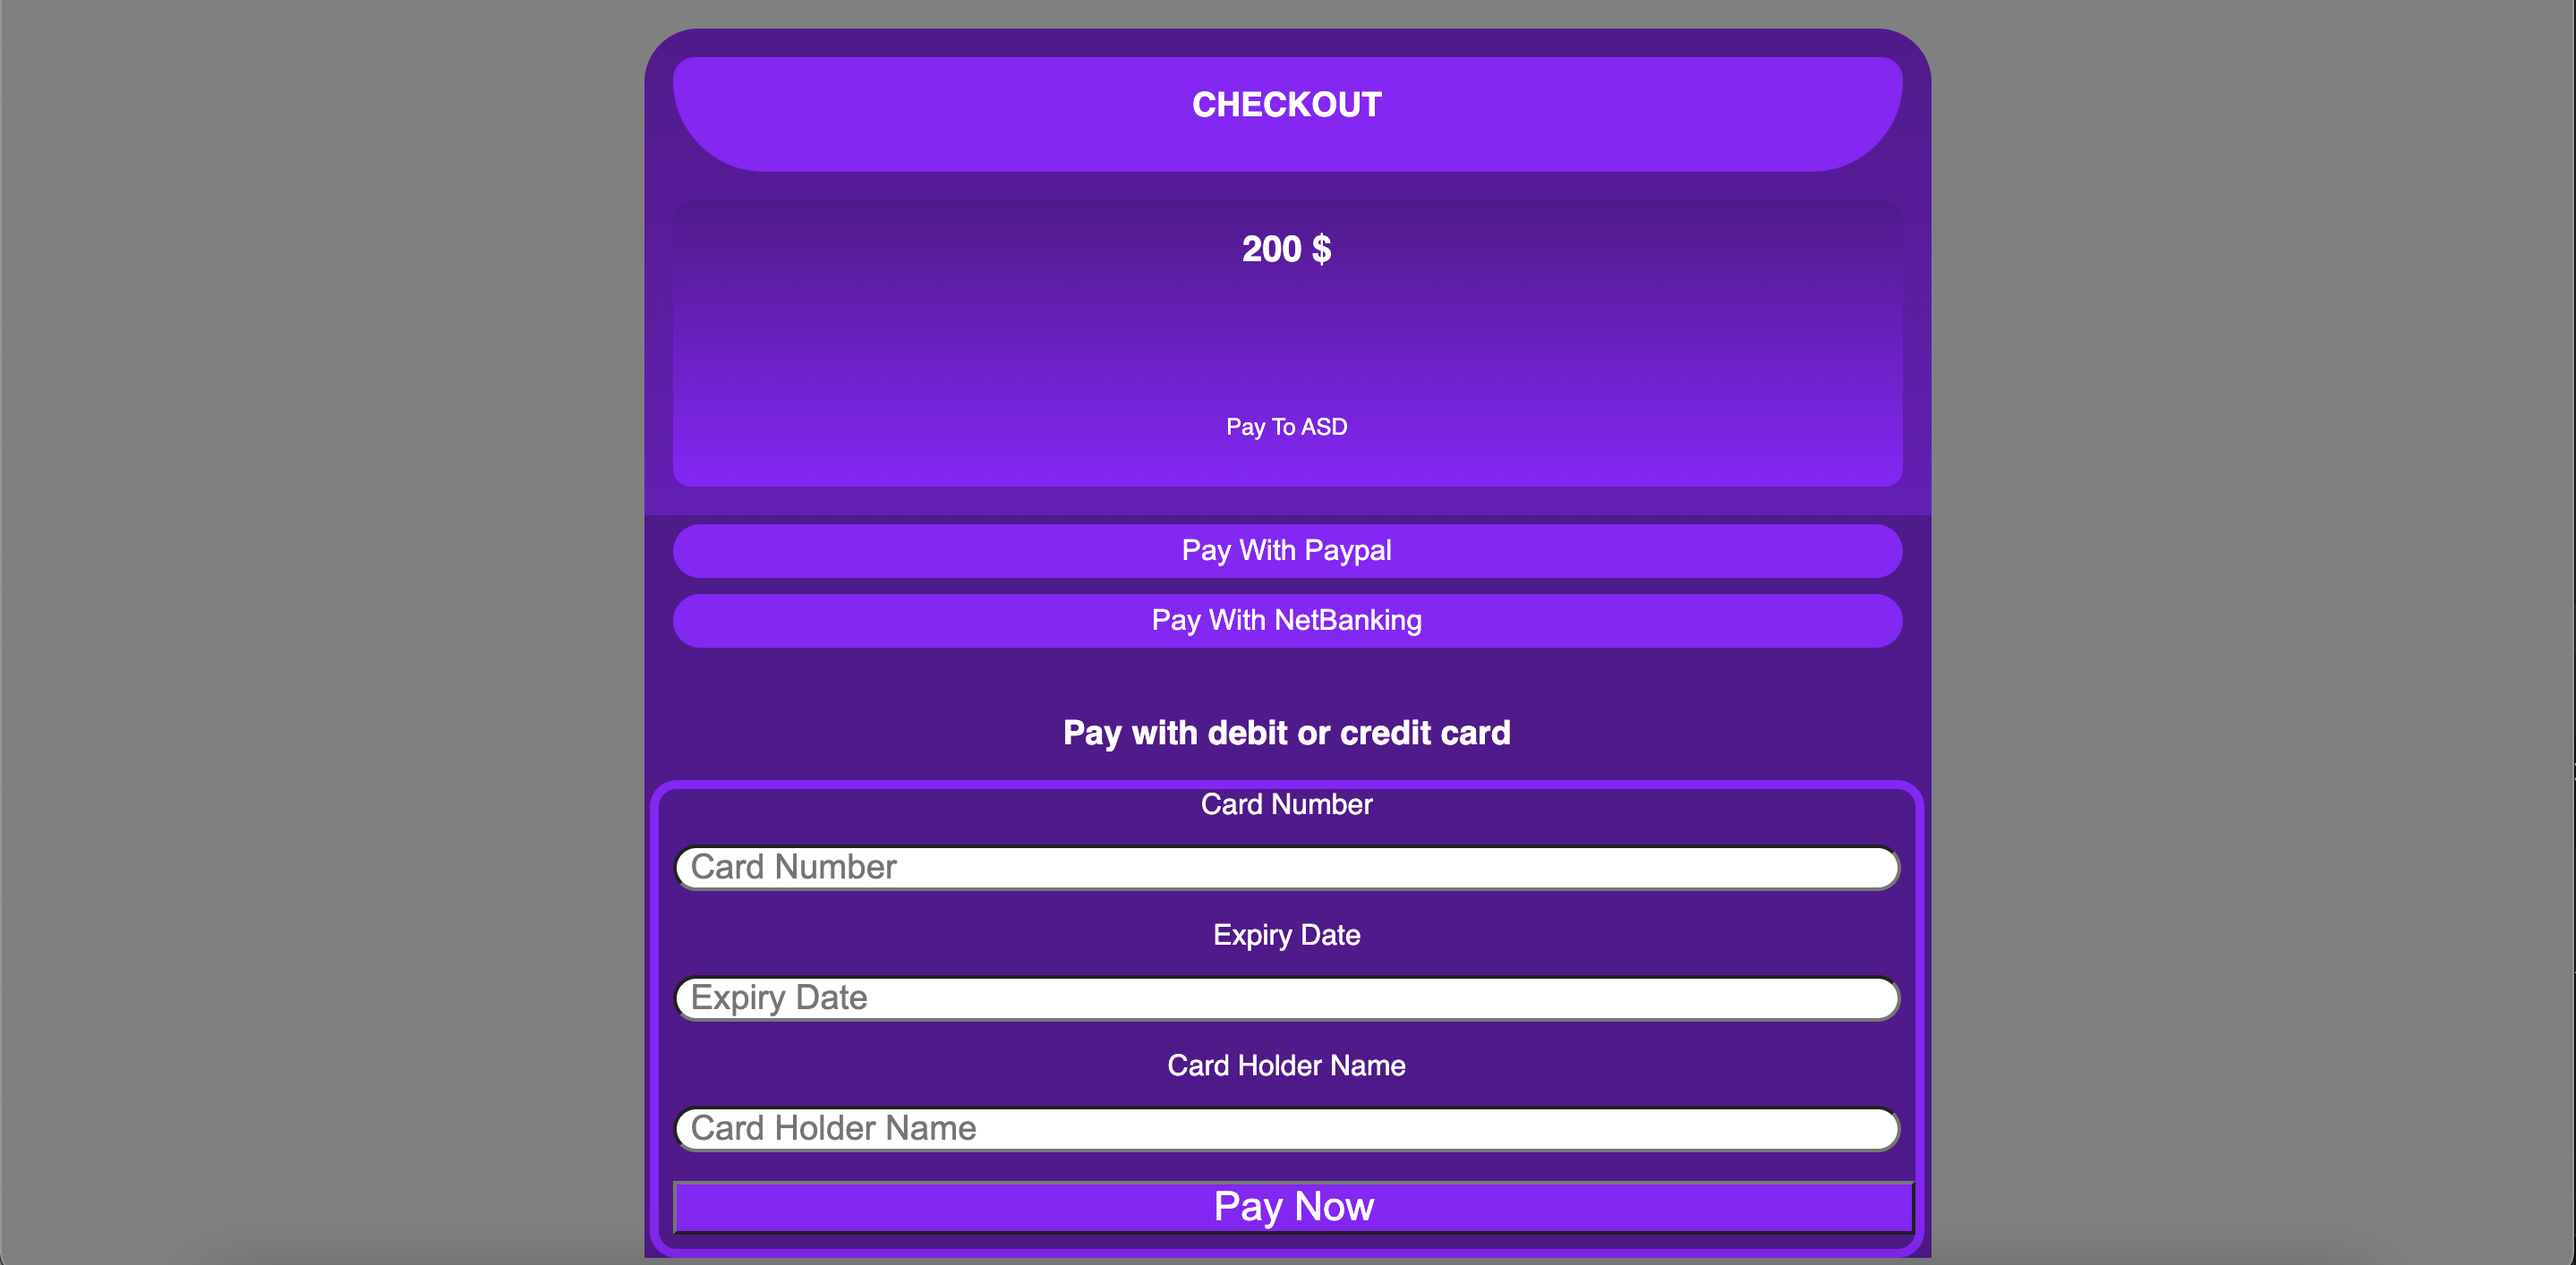
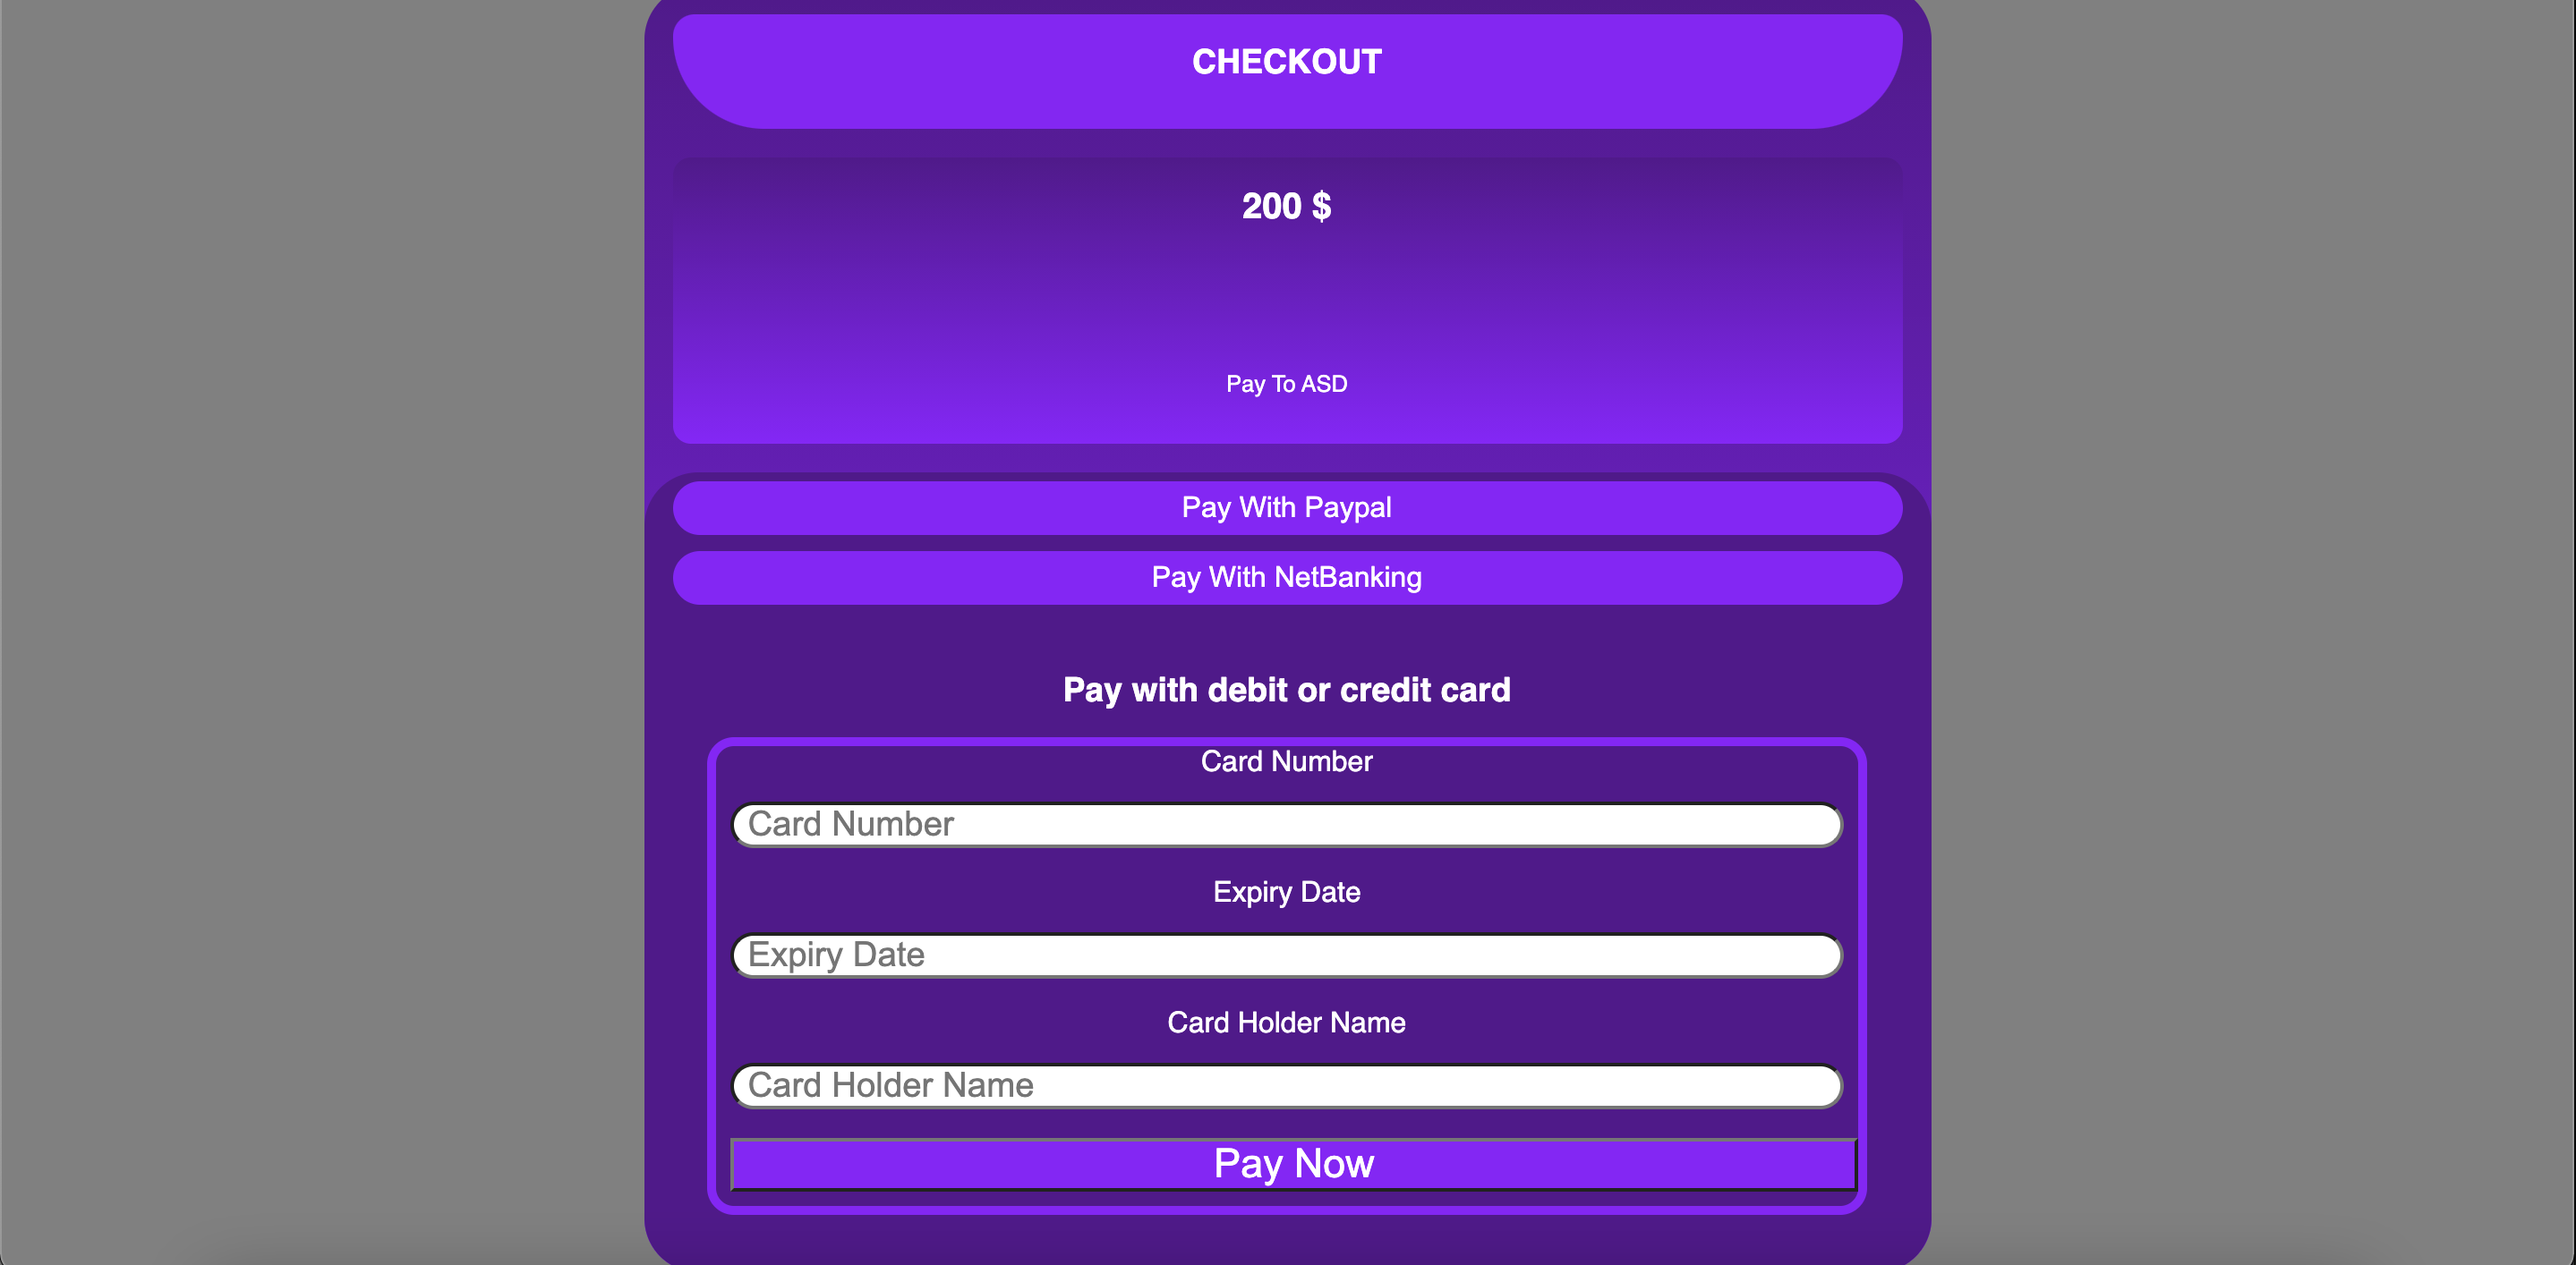
better ui

Changed region(s): [[0.2474, 0.2801, 0.7731, 1.0], [0.2474, 0.0, 0.7731, 0.2178]]

diff --git a/style.css b/style.css
@@ -68,6 +68,7 @@ body{
     display: flex;
     flex-direction: column;
     background: #580e8f;
+    border-radius: 30px;
 }
 
 .btn-paynent{
@@ -86,7 +87,7 @@ body{
 
 }
 .card-detail{
-    margin-top: 2rem;
+    margin: 2rem;
 }
 
 .card-form{
